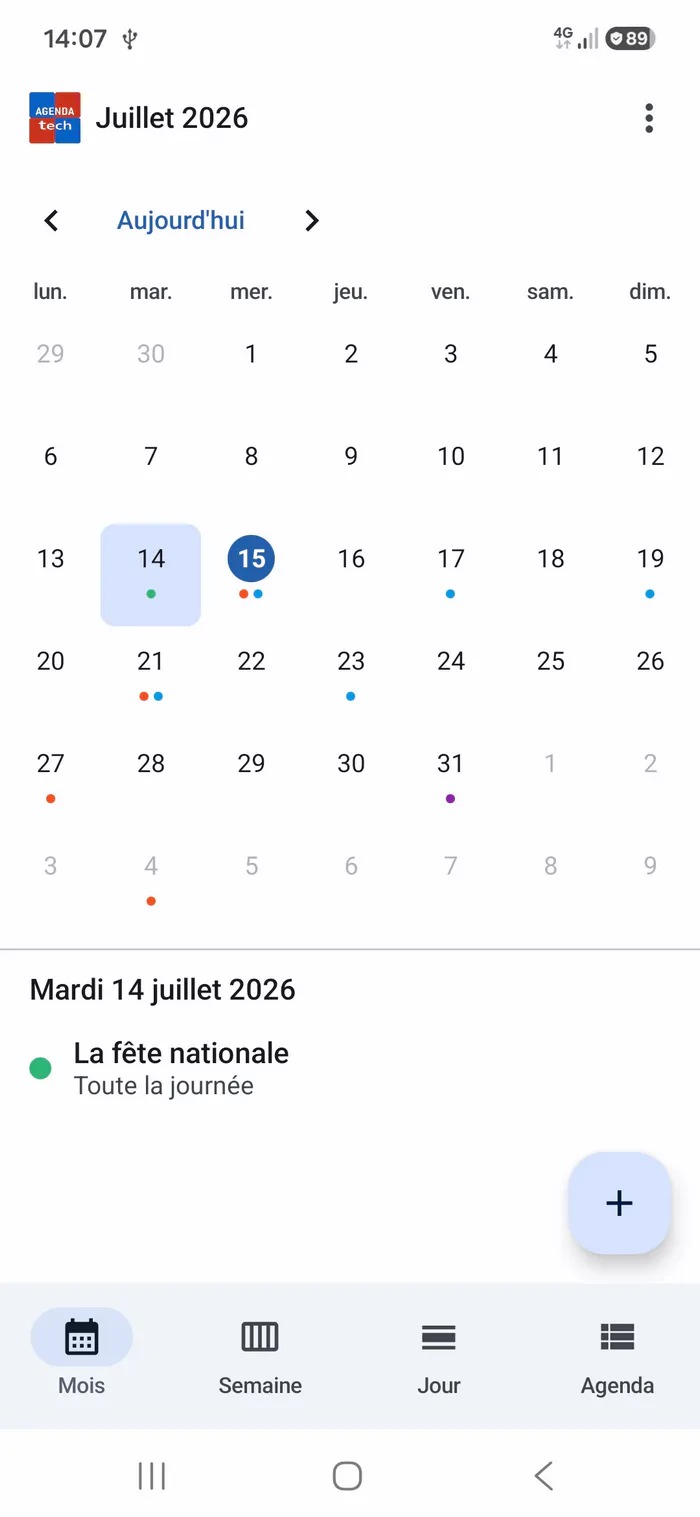
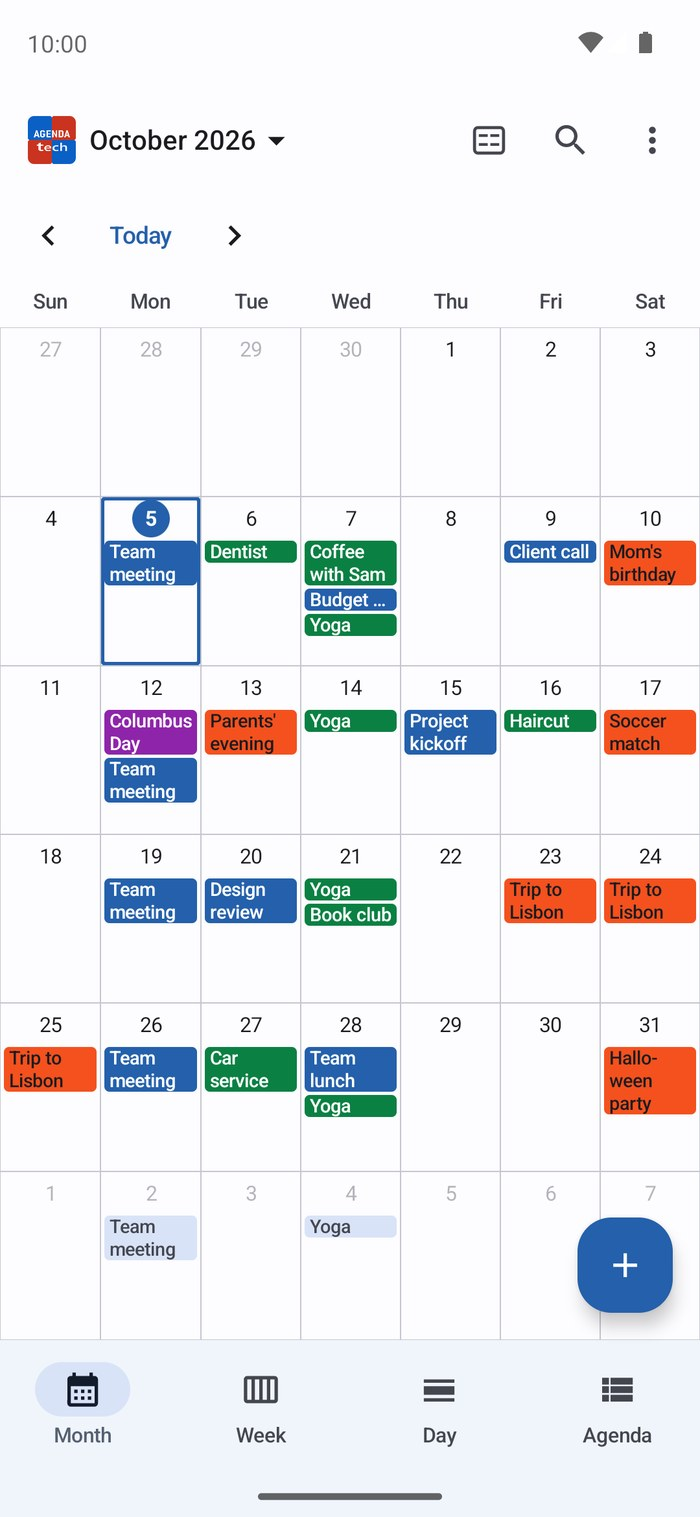
release: v1.2.0 (versionCode 58) — three month displays, German, Italian, Spanish (#35)
The month now shows what each day holds (dots, titles in the grid, or one
row per day), the app speaks German, Italian and Spanish, and all-day
events keep their own date wherever the phone is.

Release surfaces:
- version.properties 58 / 1.2.0, with its history line.
- CHANGELOG: [Unreleased] becomes [1.2.0] — 2026-10-05, with a summary.
- fastlane changelogs/58.txt in the five languages, 376 to 458 characters
  (F-Droid cuts at 500); the "Views" line of the five store descriptions,
  of both READMEs and of the About screen names the three displays.
- THIRD_PARTY_NOTICES: SQLCipher 4.19.1, the only library that changed
  since v1.1.1 (releaseRuntimeClasspath read again).
- Store screenshots redone in English from the 1.2.0 build on an Android 14
  emulator: month with titles, one row per day, the day sheet, the editor,
  About. The fr-FR ones, from v0.3.0, are removed: F-Droid shows a single
  set to every language (fdroidclient LocaleChooser.getBestLocale), so
  French readers now see the current screens instead of old ones.

Also, found while taking the screenshots: reminder and repeat labels read
"1 day(s) before", "every 2 week(s)", "after 1 occurrences" in every
language. They are now plurals agreeing with their number, French says
« Toutes les » semaines but « Tous les » jours, and the editor and the
settings share one reminderLabel instead of a copy each. Lint's
ImpliedQuantity is set aside on the five French unit plurals, whose number
[…]

diff --git a/app/src/main/java/com/filestech/agenda_tech/ui/screens/editor/EventEditorScreen.kt b/app/src/main/java/com/filestech/agenda_tech/ui/screens/editor/EventEditorScreen.kt
@@ -62,6 +62,7 @@ import androidx.compose.ui.Modifier
 import androidx.compose.ui.draw.clip
 import androidx.compose.ui.graphics.Color
 import androidx.compose.ui.platform.LocalContext
+import androidx.compose.ui.res.pluralStringResource
 import androidx.compose.ui.res.stringResource
 import androidx.compose.ui.text.input.KeyboardType
 import androidx.compose.ui.unit.dp
@@ -80,6 +81,7 @@ import com.filestech.agenda_tech.ui.util.ReminderNotificationsBlockedNotice
 import com.filestech.agenda_tech.ui.util.rememberAppLocale
 import com.filestech.agenda_tech.ui.util.rememberReminderNotifications
 import com.filestech.agenda_tech.ui.util.displayName
+import com.filestech.agenda_tech.ui.util.reminderLabel
 import timber.log.Timber
 import java.time.DayOfWeek
 import java.time.LocalDate
@@ -711,7 +713,7 @@ private fun AdvancedRecurrenceSection(
     ) {
         // Interval — "every N days/weeks/months/years".
         Row(verticalAlignment = Alignment.CenterVertically, horizontalArrangement = Arrangement.spacedBy(8.dp)) {
-            Text(stringResource(R.string.recurrence_every))
+            Text(stringResource(intervalPrefixRes(freq)))
             OutlinedTextField(
                 value = interval.toString(),
                 onValueChange = { it.trim().toIntOrNull()?.let(onIntervalChange) },
@@ -719,7 +721,7 @@ private fun AdvancedRecurrenceSection(
                 keyboardOptions = KeyboardOptions(keyboardType = KeyboardType.Number),
                 modifier = Modifier.width(88.dp),
             )
-            Text(intervalUnitLabel(context, freq))
+            Text(intervalUnitLabel(context, freq, interval))
         }
 
         // Weekly BYDAY chips.
@@ -756,7 +758,7 @@ private fun AdvancedRecurrenceSection(
                 keyboardOptions = KeyboardOptions(keyboardType = KeyboardType.Number),
                 modifier = Modifier.width(88.dp),
             )
-            Text(stringResource(R.string.recurrence_occurrences))
+            Text(pluralStringResource(R.plurals.recurrence_occurrences, count))
         }
         Row(verticalAlignment = Alignment.CenterVertically, horizontalArrangement = Arrangement.spacedBy(8.dp)) {
             RadioButton(selected = end == RecurrenceEnd.ON_DATE, onClick = { onEndChange(RecurrenceEnd.ON_DATE) })
@@ -987,21 +989,24 @@ private val SAVE_BUTTON_HEIGHT = 36.dp
 /** Reminder presets, in minutes-before-start. */
 private val REMINDER_PRESETS = listOf(0, 5, 10, 15, 30, 60, 24 * 60)
 
-private fun reminderLabel(context: android.content.Context, minutes: Int): String = when {
-    minutes == 0 -> context.getString(R.string.reminder_at_time)
-    minutes % (24 * 60) == 0 -> context.getString(R.string.reminder_days, minutes / (24 * 60))
-    minutes % 60 == 0 -> context.getString(R.string.reminder_hours, minutes / 60)
-    else -> context.getString(R.string.reminder_minutes, minutes)
+/** The word before the interval field, per unit: French says « Toutes les » semaines but « Tous les » jours. */
+private fun intervalPrefixRes(freq: RecurrenceFreq): Int = when (freq) {
+    RecurrenceFreq.DAILY -> R.string.recurrence_every_days
+    RecurrenceFreq.WEEKLY -> R.string.recurrence_every_weeks
+    RecurrenceFreq.MONTHLY -> R.string.recurrence_every_months
+    RecurrenceFreq.YEARLY -> R.string.recurrence_every_years
 }
 
-private fun intervalUnitLabel(context: android.content.Context, freq: RecurrenceFreq): String =
-    context.getString(
+/** The unit after the interval field, agreeing with the number in it: "every 1 week", "every 2 weeks". */
+private fun intervalUnitLabel(context: android.content.Context, freq: RecurrenceFreq, interval: Int): String =
+    context.resources.getQuantityString(
         when (freq) {
-            RecurrenceFreq.DAILY -> R.string.recurrence_unit_days
-            RecurrenceFreq.WEEKLY -> R.string.recurrence_unit_weeks
-            RecurrenceFreq.MONTHLY -> R.string.recurrence_unit_months
-            RecurrenceFreq.YEARLY -> R.string.recurrence_unit_years
+            RecurrenceFreq.DAILY -> R.plurals.recurrence_unit_days
+            RecurrenceFreq.WEEKLY -> R.plurals.recurrence_unit_weeks
+            RecurrenceFreq.MONTHLY -> R.plurals.recurrence_unit_months
+            RecurrenceFreq.YEARLY -> R.plurals.recurrence_unit_years
         },
+        interval,
     )
 
 private fun weekdayNarrow(weekday: Weekday, locale: Locale): String =

diff --git a/app/src/main/java/com/filestech/agenda_tech/ui/screens/settings/SettingsScreen.kt b/app/src/main/java/com/filestech/agenda_tech/ui/screens/settings/SettingsScreen.kt
@@ -72,6 +72,7 @@ import com.filestech.agenda_tech.domain.settings.AppSettings
 import com.filestech.agenda_tech.domain.settings.ThemeMode
 import com.filestech.agenda_tech.domain.settings.WeekStart
 import com.filestech.agenda_tech.ui.util.rememberReminderNotifications
+import com.filestech.agenda_tech.ui.util.reminderLabel
 
 private val DURATION_OPTIONS = listOf(15, 30, 45, 60, 90, 120, 240)
 private val REMINDER_OPTIONS = listOf(AppSettings.NO_DEFAULT_REMINDER, 0, 5, 10, 15, 30, 60, 24 * 60)
@@ -590,13 +591,6 @@ private fun durationLabel(context: Context, minutes: Int): String = when {
     else -> context.getString(R.string.duration_minutes, minutes)
 }
 
-private fun reminderLabel(context: Context, minutes: Int): String = when {
-    minutes < 0 -> context.getString(R.string.reminder_off)
-    minutes == 0 -> context.getString(R.string.reminder_at_time)
-    minutes % (24 * 60) == 0 -> context.getString(R.string.reminder_days, minutes / (24 * 60))
-    minutes % 60 == 0 -> context.getString(R.string.reminder_hours, minutes / 60)
-    else -> context.getString(R.string.reminder_minutes, minutes)
-}
 
 /**
  * Releases the persistable read grant we hold on [previousUri], unless it is the one we are [keeping].

diff --git a/app/src/main/java/com/filestech/agenda_tech/ui/util/ReminderLabel.kt b/app/src/main/java/com/filestech/agenda_tech/ui/util/ReminderLabel.kt
@@ -1,0 +1,24 @@
+package com.filestech.agenda_tech.ui.util
+
+import android.content.Context
+import com.filestech.agenda_tech.R
+
+private const val MINUTES_PER_HOUR = 60
+private const val MINUTES_PER_DAY = 24 * MINUTES_PER_HOUR
+
+/**
+ * How a reminder reads — "At time of event", "15 min before", "2 h before", "1 day before". A negative
+ * value is the settings' "no default reminder".
+ *
+ * One function for the editor and the settings, which each had their own copy; the day count is a
+ * plural, where both copies wrote "1 day(s) before".
+ */
+internal fun reminderLabel(context: Context, minutes: Int): String = when {
+    minutes < 0 -> context.getString(R.string.reminder_off)
+    minutes == 0 -> context.getString(R.string.reminder_at_time)
+    minutes % MINUTES_PER_DAY == 0 -> (minutes / MINUTES_PER_DAY).let { days ->
+        context.resources.getQuantityString(R.plurals.reminder_days, days, days)
+    }
+    minutes % MINUTES_PER_HOUR == 0 -> context.getString(R.string.reminder_hours, minutes / MINUTES_PER_HOUR)
+    else -> context.getString(R.string.reminder_minutes, minutes)
+}

diff --git a/CHANGELOG.md b/CHANGELOG.md
@@ -3,7 +3,10 @@
 Toutes les versions notables d'Agenda Tech. Format inspiré de [Keep a Changelog](https://keepachangelog.com/fr/1.1.0/) ;
 versions selon [SemVer](https://semver.org/lang/fr/).
 
-## [Unreleased]
+## [1.2.0] — 2026-10-05
+
+The month now shows what each day holds, the app speaks German, Italian and Spanish, and all-day
+events keep their own date wherever the phone is.
 
 ### Added
 
@@ -51,6 +54,8 @@ versions selon [SemVer](https://semver.org/lang/fr/).
   starting on Sunday — until the app was closed.
 - **An all-day reminder showed a clock time** (00:00, or another hour after a journey); it no longer
   does.
+- **Reminder and repeat labels read "day(s)"**: they now agree with their number in every language —
+  "1 day before", "every 2 weeks", "after 1 occurrence".
 - **Coming back to the month could show the next one.** After swiping to another month, a visit to
   Settings, the editor or search came back one month further — every time.
 - **At the largest text sizes, two-digit day numbers were cut** ("1" for the 12th), and so were
@@ -107,6 +112,8 @@ versions selon [SemVer](https://semver.org/lang/fr/).
   — un mois allemand commençant le dimanche — jusqu'à la fermeture de l'application.
 - **Le rappel d'une journée entière affichait une heure** (00:00, ou une autre après un voyage) ; ce
   n'est plus le cas.
+- **Les libellés de rappel et de répétition disaient « jour(s) »** : ils s'accordent désormais avec leur
+  nombre dans toutes les langues — « 1 jour avant », « 2 semaines », « 1 occurrence ».
 - **Allemand, italien et espagnol**, en plus de l'anglais et du français : tous les écrans, les
   notifications et le widget, la fiche F-Droid, la politique de confidentialité et les nouvelles
   conditions d'utilisation. Traductions assistées par machine, pas encore relues par un locuteur

diff --git a/THIRD_PARTY_NOTICES.md b/THIRD_PARTY_NOTICES.md
@@ -3,7 +3,8 @@
 Agenda Tech (`com.filestech.agenda_tech`) is licensed under the Apache License 2.0
 ([LICENSE](LICENSE)). It ships the open-source libraries listed below. The list was read on
 2026-09-26 from the resolved `releaseRuntimeClasspath` of the `:app` module at `v1.1.1`, and each
-licence from the POM that the library publishes — not from memory.
+licence from the POM that the library publishes — not from memory. Read again on 2026-10-05 for
+`v1.2.0`: only SQLCipher changed.
 
 **No Google Play Services, no Firebase, no analytics SDK, no crash reporter, no network library.**
 
@@ -25,7 +26,7 @@ licence from the POM that the library publishes — not from memory.
 | `javax.inject`, `jakarta.inject-api` | 1 / 2.0.1 | JSR-330 / Eclipse Foundation | Apache 2.0 |
 | Okio (pulled in by DataStore) | 3.4.0 | Square | Apache 2.0 |
 | Timber | 5.0.1 | Jake Wharton | Apache 2.0 |
-| **SQLCipher for Android** | 4.19.0 | Zetetic LLC | **BSD-3-Clause** — full text below |
+| **SQLCipher for Android** | 4.19.1 | Zetetic LLC | **BSD-3-Clause** — full text below |
 
 SQLCipher bundles **SQLite** and **LibTomCrypt**, both released into the public domain by their
 authors.

diff --git a/README.fr.md b/README.fr.md
@@ -24,7 +24,8 @@ L'APK est **universel** (fonctionne sur tous les appareils, pas de variante à c
 
 ## Fonctionnalités
 
-- **Vues** Mois (changement de mois par glissement fluide), Semaine, Jour et Agenda (liste).
+- **Vues** Mois (changement de mois par glissement fluide ; points, titres dans la grille ou une
+  ligne par jour, au pincement), Semaine, Jour et Agenda (liste).
 - **Événements** : création/édition, journée entière, description, couleur par événement.
 - **Lieu** : libellé, adresse postale (adresse, code postal, ville) et coordonnées GPS — un appui
   ouvre le point dans votre application de cartes (sans aucune permission de localisation).

diff --git a/README.md b/README.md
@@ -23,7 +23,8 @@ The APK is **universal** (works on every device, no variant to pick) and **signe
 
 ## Features
 
-- **Views**: Month (smooth swipe between months), Week, Day and Agenda (list).
+- **Views**: Month (smooth swipe between months; dots, titles in the grid or one row per day, pinch
+  to switch), Week, Day and Agenda (list).
 - **Events**: create/edit, all-day, description, per-event colour.
 - **Place**: label, postal address (street, postcode, city) and GPS coordinates — one tap opens the
   point in your maps app (with no location permission at all).
